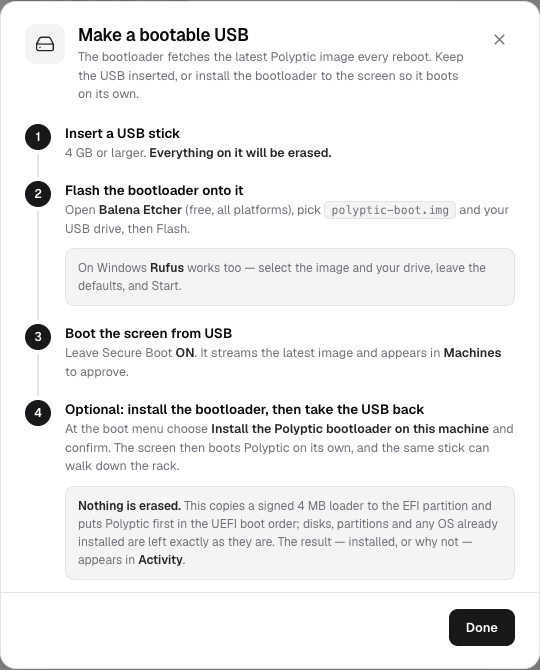
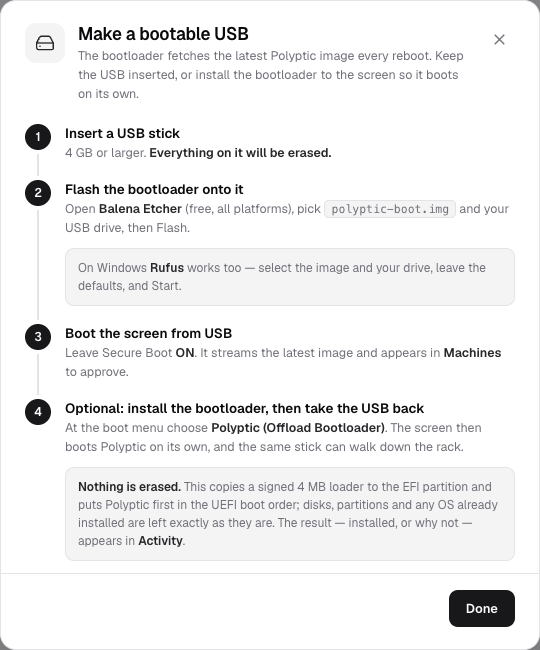
fix(netboot): flat GRUB menu, restore entry names, export arch/net (POL-58, D61)
The confirmation submenu added by D60 was broken, and broken in a way only a
real boot could reveal: picking "Yes, install it" died with

    error: file `/dist/image//vmlinuz' not found

GRUB opens a fresh environment context for a `submenu` (normal/menu.c:
`if (entry->submenu) grub_env_context_open()`) and copies only EXPORTED
variables into it. `arch` and `net` were set at the top level and never
exported, so inside the submenu both resolved to the empty string. A plain
`menuentry` never opens a context — which is exactly why the sibling live
entry booted fine seconds earlier, and why nothing off-box caught this.

So:
  - The menu is flat again, with the names operators already know:
    Polyptic (Live) / Polyptic (Offload Bootloader) / Polyptic (Debug Console).
  - `arch` and `net` are exported, so a future nesting cannot silently
    reintroduce the bug. Pinned by a test.
  - The "are you sure?" interstitial is gone. Offload is non-destructive by
    construction (D60's real content — verify, choose, report — stands), so it
    never needed an interlock, and the reassurance belongs in the console,
    where the operator reads it before walking to the box.

Docs, the console's USB modal and its screenshots follow the entry names.
293/293 tests green, typecheck clean.

diff --git a/packages/e2e/netboot.e2e.test.ts b/packages/e2e/netboot.e2e.test.ts
@@ -270,22 +270,38 @@ describe("netboot: GET /boot/grub.cfg", () => {
   );
 
   test(
-    "installing the bootloader sits behind a confirmation submenu that defaults to NO (POL-58)",
+    "the menu is three flat entries with the names operators know, and no submenu",
     async () => {
       const body = await (await fetch(`${OPEN_BASE}/boot/grub.cfg`)).text();
-      // A single keypress must never install anything: the install lives inside a submenu whose
-      // default entry is the cancel entry (a stray Enter, or the timeout, boots the wall instead).
-      expect(body).toContain('submenu "Install the Polyptic bootloader on this machine ..." --id install');
-      const submenu = body.slice(body.indexOf("--id install"));
-      expect(submenu).toContain("set default=cancel");
-      expect(submenu.indexOf("--id cancel")).toBeLessThan(submenu.indexOf("--id offload"));
-      // The operator asked to be told what installing does. It does not erase; say so where they look.
-      expect(body).toContain("Nothing is erased");
-      expect(body).toContain("--id note-1");
-      // And the top-level entry that changes nothing says so too.
-      expect(body).toContain('menuentry "Boot Polyptic now (this machine is not touched)" --id live');
-      // Cancel re-sources the menu, so backing out lands you exactly where you started.
-      expect(submenu).toContain("configfile $net/boot/grub.cfg");
+      expect(body).toContain('menuentry "Polyptic (Live)" --id live');
+      expect(body).toContain('menuentry "Polyptic (Offload Bootloader)" --id offload');
+      expect(body).toContain('menuentry "Polyptic (Debug Console)" --id debug');
+      // A submenu opens a fresh GRUB environment context, which is what broke `$net`/`$arch` below.
+      expect(body).not.toContain("submenu ");
+    },
+    TEST_TIMEOUT,
+  );
+
+  test(
+    "`arch` and `net` are EXPORTED, so a nested entry can never resolve them to empty (POL-58)",
+    async () => {
+      const body = await (await fetch(`${OPEN_BASE}/boot/grub.cfg`)).text();
+      // GRUB opens a new env context for a `submenu` and copies only EXPORTED variables into it. A
+      // confirmation submenu once wrapped the offload entry, so `$net` and `$arch` came out empty and
+      // GRUB asked for `/dist/image//vmlinuz` — file not found, on a box whose live entry booted fine.
+      // Both are set before any entry, and both are exported.
+      const archSet = body.indexOf("set arch=amd64");
+      const exportArch = body.indexOf("export arch");
+      const exportNet = body.indexOf("export net");
+      const firstEntry = body.indexOf("menuentry ");
+      expect(archSet).toBeGreaterThan(-1);
+      expect(exportArch).toBeGreaterThan(archSet);
+      expect(exportNet).toBeGreaterThan(-1);
+      expect(exportArch).toBeLessThan(firstEntry);
+      expect(exportNet).toBeLessThan(firstEntry);
+      // And no entry may hardcode an arch into the artifact path — `$arch` is the only selector.
+      expect(body).not.toContain("/dist/image/amd64/vmlinuz");
+      expect(body).not.toContain("/dist/image//vmlinuz");
     },
     TEST_TIMEOUT,
   );

diff --git a/packages/server/src/provision.ts b/packages/server/src/provision.ts
@@ -221,10 +221,11 @@ function bootKernelCmdline(httpBase: string, token: string | undefined): string 
  * commands are plain `linux`/`initrd` (noble's signed GRUB has no linuxefi). When the computed base is
  * https, http is emitted anyway: GRUB has no TLS, the boot depot is plain-HTTP by contract.
  *
- * POL-58: the install now sits behind a CONFIRMATION SUBMENU that defaults to "no". The operator who
- * hit this expected to be asked "are you sure you want to erase this disk?", and the honest answer —
- * Polyptic never erases anything — is exactly what is worth saying at the moment of choosing. GRUB
- * paints its menu over any `echo`, so the explanation has to live in the entry titles themselves.
+ * The menu is FLAT: three sibling entries, no submenu. A confirmation submenu was tried (POL-58) and
+ * reverted — it broke the very entry it guarded (see the `export` note below), and the reassurance it
+ * carried belongs in the console, where the operator reads it before walking to the box, not in a GRUB
+ * menu they are trying to get past. Offload is non-destructive by construction; nothing here needs a
+ * safety interlock.
  */
 export function buildBootGrubCfg(base: string, token: string | undefined): string {
   const hostPort = base.replace(/^[a-z][a-z0-9+.-]*:\/\//i, "");
@@ -244,29 +245,25 @@ export function buildBootGrubCfg(base: string, token: string | undefined): strin
   lines.push(
     'if [ "$grub_cpu" = "x86_64" ]; then set arch=amd64; else set arch=arm64; fi',
     `set net=(http,${hostPort})`,
+    // `export` is LOAD-BEARING, not tidiness (POL-58). GRUB opens a fresh environment context for a
+    // `submenu` (`normal/menu.c`: `if (entry->submenu) grub_env_context_open()`), and ONLY exported
+    // variables cross a context boundary. A submenu wrapped around these entries therefore saw `$net`
+    // and `$arch` as empty and asked the firmware for `/dist/image//vmlinuz` — "file not found", on a
+    // box that had booted the identical top-level entry moments before. Exporting them makes the menu
+    // safe to nest; a plain top-level menuentry never opened a context and always worked.
+    "export arch",
+    "export net",
     "set timeout=5",
     "set default=live",
-    'menuentry "Boot Polyptic now (this machine is not touched)" --id live {',
+    'menuentry "Polyptic (Live)" --id live {',
     '  echo "Polyptic: streaming the $arch live image into RAM ..."',
     `  linux  $net/dist/image/$arch/vmlinuz ${cmdline}`,
     "  initrd $net/dist/image/$arch/initrd",
     "}",
-    // The confirmation gate. `default=cancel` means a stray Enter (or the 60s timeout, which reloads
-    // this menu and boots the wall) can never install anything; the operator has to choose "Yes".
-    'submenu "Install the Polyptic bootloader on this machine ..." --id install {',
-    "  set timeout=60",
-    "  set default=cancel",
-    '  menuentry "No - go back, change nothing (or press Escape)" --id cancel {',
-    "    configfile $net/boot/grub.cfg",
-    "  }",
-    '  menuentry "Yes - add Polyptic to the UEFI boot menu and boot it first from now on" --id offload {',
-    '    echo "Polyptic: installing the signed bootloader onto this machine\'s EFI partition ..."',
-    `    linux  $net/dist/image/$arch/vmlinuz ${cmdline} polyptic.offload=1`,
-    "    initrd $net/dist/image/$arch/initrd",
-    "  }",
-    '  menuentry "Nothing is erased: your disks, partitions and existing OS are left as they are" --id note-1 { true }',
-    '  menuentry "It copies a signed 4 MB loader to the EFI partition; the OS still streams from the network" --id note-2 { true }',
-    `  menuentry 'To undo: delete the "Polyptic Netboot" boot entry in your firmware setup' --id note-3 { true }`,
+    'menuentry "Polyptic (Offload Bootloader)" --id offload {',
+    '  echo "Polyptic: offload mode, the live image will install the loader, then keep booting ..."',
+    `  linux  $net/dist/image/$arch/vmlinuz ${cmdline} polyptic.offload=1`,
+    "  initrd $net/dist/image/$arch/initrd",
     "}",
     'menuentry "Polyptic (Debug Console)" --id debug {',
     '  echo "Polyptic: live boot + root shell on tty9 (Ctrl+Alt+F9) ..."',

diff --git a/packages/console/src/views/Settings.vue b/packages/console/src/views/Settings.vue
@@ -835,8 +835,8 @@ async function onSignOut(): Promise<void> {
               <div class="step-body">
                 <div class="step-title">Optional: install the bootloader, then take the USB back</div>
                 <div class="step-text">
-                  At the boot menu choose <b>Install the Polyptic bootloader on this machine</b> and confirm. The screen
-                  then boots Polyptic on its own, and the same stick can walk down the rack.
+                  At the boot menu choose <b>Polyptic (Offload Bootloader)</b>. The screen then boots Polyptic on its
+                  own, and the same stick can walk down the rack.
                 </div>
                 <div class="step-aside">
                   <b>Nothing is erased.</b> This copies a signed 4 MB loader to the EFI partition and puts Polyptic first

diff --git a/docs/NETBOOT.md b/docs/NETBOOT.md
@@ -49,7 +49,7 @@ curl -sI http://10.0.0.5:8080/dist/image/amd64/rootfs.squashfs | grep -i accept-
 
 **5. Make a box boot it**, pick **one**:
 
-- **USB dongle (simplest):** Console ▸ Settings ▸ Onboard Screens ▸ **Download bootloader**, then `sudo dd if=polyptic-boot.img of=/dev/sdX bs=4M` to a USB stick. The same stick boots amd64 **and** arm64 boxes. Plug it in, boot from USB with Secure Boot ON, and choose **boot now** or **install the bootloader** at the menu. See [The boot medium](#the-boot-medium-dongle-or-offload).
+- **USB dongle (simplest):** Console ▸ Settings ▸ Onboard Screens ▸ **Download bootloader**, then `sudo dd if=polyptic-boot.img of=/dev/sdX bs=4M` to a USB stick. The same stick boots amd64 **and** arm64 boxes. Plug it in, boot from USB with Secure Boot ON, and choose **Polyptic (Live)** or **Polyptic (Offload Bootloader)** at the menu. See [The boot medium](#the-boot-medium-dongle-or-offload).
 - **No medium, UEFI HTTP Boot:** point the box's firmware Boot URI at `http://10.0.0.5:8080/dist/boot/shimx64.efi` (arm64: `shimaa64.efi`). See [No medium at all](#no-medium-at-all-uefi-http-boot).
 - **No medium, site DHCP:** add one option-67 rule to the DHCP you already run. See [Site DHCP option 67](#site-dhcp-option-67-one-change-to-the-dhcp-you-already-run).
 
@@ -110,7 +110,7 @@ All in [`packages/server/src/provision.ts`](../packages/server/src/provision.ts)
 
 | Route | Gate | What |
 |---|---|---|
-| `GET /boot/grub.cfg` | **ungated** | The generated GRUB menu (boot now / install-the-bootloader, the latter behind a confirmation submenu). Bakes the control-plane base from the request `Host` and, in gated mode, the current enrolment token into the kernel cmdline. The box has no operator session at boot, so this is ungated. |
+| `GET /boot/grub.cfg` | **ungated** | The generated GRUB menu: `Polyptic (Live)` / `Polyptic (Offload Bootloader)` / `Polyptic (Debug Console)`, three flat entries. Bakes the control-plane base from the request `Host` and, in gated mode, the current enrolment token into the kernel cmdline. The box has no operator session at boot, so this is ungated. |
 | `POST /boot/report` | **token** | How a box's bootloader install went (POL-58) → one line in the Live Activity feed. The reporter is mid-boot with no agent session, hence not under `/api/v1`; in gated mode it must present the fleet enrolment token it netbooted with, in open mode it is ungated like the rest of the depot. Read-only against the registry, throttled, and the body can only produce one bounded line. |
 | `GET /grub/grub.cfg` (+ `/grub/x86_64-efi/grub.cfg`, `/grub/arm64-efi/grub.cfg`) | **ungated** | **Aliases of the same menu**, at the paths an HTTP-booted GRUB actually asks for: grubnet's baked-in prefix is `/grub`, resolved against the **server root** of the host it was fetched from. See [the appendix](#no-medium-at-all-uefi-http-boot). |
 | `GET /dist/image/:arch/{vmlinuz,initrd,rootfs.squashfs}` | **ungated** | The **active** live-image artifacts, streamed with real HTTP **Range** (206/416); the root image is hundreds of MB and streamed into RAM. |
@@ -239,7 +239,7 @@ Download it from **Console ▸ Settings ▸ Onboard Screens ▸ Download bootloa
 Plug it in and the server-side menu offers:
 
 - **Boot Polyptic now**, leave the USB in. The box is fully **diskless**; nothing whatsoever is written locally. Best for disposable / hot-swap panels.
-- **Install the Polyptic bootloader on this machine**, behind a confirmation submenu that defaults to *No*. It writes *just the signed shim + GRUB pair* (the pointer, not the OS) into the box's **existing EFI System Partition** under `EFI/polyptic/`, drops the same stage-1 config at the ESP's `/grub/<arch>-efi/grub.cfg` (and `/grub/grub.cfg` when that path is free), and makes a UEFI boot entry (`efibootmgr`, "Polyptic Netboot") the firmware's **first** boot option. Pull the USB and the box self-boots the identical HTTP flow forever, **Secure Boot still ON** (the installed loaders are the same signed binaries). One USB can walk a rack, installing on each box.
+- **Polyptic (Offload Bootloader)** writes *just the signed shim + GRUB pair* (the pointer, not the OS) into the box's **existing EFI System Partition** under `EFI/polyptic/`, drops the same stage-1 config at the ESP's `/grub/<arch>-efi/grub.cfg` (and `/grub/grub.cfg` when that path is free), and makes a UEFI boot entry (`efibootmgr`, "Polyptic Netboot") the firmware's **first** boot option. Pull the USB and the box self-boots the identical HTTP flow forever, **Secure Boot still ON** (the installed loaders are the same signed binaries). One USB can walk a rack, installing on each box.
 
 > **The dongle depends on the firmware bringing the NIC up (POL-39).** GRUB carries no NIC
 > drivers of its own — `efinet` can only use a card the firmware has already initialised. Most
@@ -433,9 +433,9 @@ whole root image into a RAM tmpfs.)
 - **Dongle flow:** attach `polyptic-boot.img` as a USB **disk** drive; the firmware boots it ahead
   of PXE, and the boot-order NIC is still initialised, so dongle-GRUB is online. Verified: ~30 s
   to content.
-- **Install-the-bootloader flow:** attach an additional VirtIO disk that has a GPT + FAT32 ESP, boot
-  the dongle, open the install submenu and confirm; the live boot writes the signed loaders + boot
-  entry on the disk, after which the box boots the same chain with the dongle removed.
+- **Offload flow:** attach an additional VirtIO disk that has a GPT + FAT32 ESP, boot the dongle and
+  pick **Polyptic (Offload Bootloader)**; the live boot writes the signed loaders + boot entry on the
+  disk, after which the box boots the same chain with the dongle removed.
   A VM's blank ESP exercises none of the firmware states that broke this on real hardware, which is
   what `deploy/live/test/offload.test.sh` is for: it drives the whole decision tree (removable media,
   several ESPs, a firmware that keeps the entry but refuses to reorder, one that forgets it, a

diff --git a/docs/ROADMAP.md b/docs/ROADMAP.md
@@ -2,7 +2,7 @@
 
 The remembered path. Fixed direction, flexible detail. Update the **CURRENT** marker as we go. Phases are sequenced by dependency, not by calendar.
 
-> **CURRENT: feature-complete through Phase 8 (skipping 6/OIDC). Pending = the UTM/OrbStack VM passes + the prod `vite build`/Docker (esbuild is disabled in the build sandbox).** Phase 3 ✅ (3a–3f). 3c content library (ContentSource) · 3d scenes (snapshot/apply/scenes-left) · 3e Machines view + cold-start wizard (SolidJS admin retired) · 3f real local auth (D29/D31, argon2id/Bun.password, signed httpOnly cookies, dual-key rate-limit, /api+/admin-WS gated, AUTH_ENABLED default-on) + Settings + enrollment-token. **Phase 5 ✅** live preview thumbnails + /healthz + Prometheus /metrics + Helm chart (D32). **Phase 4 ✅** on-device stack (real sway/x11, zero-touch depot install, D41). **Phase 7 ✅** media upload→disk volume + ungated Range serve (D33). **Phase 8 ✅** single-image SPAs + GitHub Actions CI/release/Pages + distribution docs (D34). **POL-9 fixed (D36):** no phantom `HDMI-1` before a compositor, a real backend that can't discover any outputs (and has no explicit override) advertises **zero** outputs, and the server prunes UNUSED connector-stragglers on re-advertise. **POL-14 (D38):** machine + screen **removal**, DELETE machine/screen endpoints that FORGET (not just reject/unplace), console "Remove" affordances. **POL-27 done (D39):** a player with no surfaces now shows a calm "No Content Assigned" idle splash (dark, branded, screen id + build version) instead of a black screen. **POL-7 (D40):** boot splash, a generated, live Plymouth theme (branded SVG logo + baked version/host + live status), `quiet splash` cmdline, retain-splash hand-off (boot + shutdown). **POL-30 ✅ (D42):** the `--kiosk` installer **auto-reboots** when it finishes (short `Ctrl-C`-able countdown; `--no-reboot`/`POLYPTIC_NO_REBOOT` opt-out; agent-only never reboots) so the one-liner is truly zero-touch, no manual `sudo reboot`. Verified: full typecheck green, **217/217 tests across 21 files** (incl. the POL-33 netboot suites + the netboot auth-gate regression guard). **VM passes underway** (Ubuntu 26.04/arm64 UTM, `wall1`/`wall2`): POL-5, POL-14, POL-27, and **POL-7 confirmed on-device** (`wall1`). **POL-7 (D43+D45): fixed + VM-confirmed**, 26.04 (dracut + plymouth 24.004) needed three fixes: theme selection via `plymouthd.conf` (no `plymouth-set-default-theme` on 26.04), dracut-first initramfs embedding via an `install_items` drop-in, and, the real crash, installing the **`plymouth-label`** text renderer (our `script` theme's `Image.Text` had no label plugin → NULL console viewer → segfault every boot). Diagnosed live over SSH with `plymouthd --debug`. Live status line + progress bar preserved. **POL-33 netboot (D46 + D47):** a bare box network-boots a live Polyptic image into RAM (no OS install) with **Secure Boot ON**, owned **by key** not by a DHCP race, the control plane is also the **boot depot**. First stage = Ubuntu's **signed shim + network GRUB** (D47, superseding D46's unsigned self-compiled loader; we sign nothing, the loaders are pinned noble debs): `provision.ts` gains `GET /boot/grub.cfg` [per-request GRUB menu, base + gated token baked from the live `Enrollment`; aliased at `/grub/grub.cfg` + per-arch paths for UEFI HTTP Boot], `/dist/image/:arch/{vmlinuz,initrd,polyptic.iso}` [Range-streamed; casper netboots via `iso-url=`, D46's `fetch=` never existed in casper], `/dist/boot/:file` [the tokenless **universal** `polyptic-boot.img` dongle + the four signed `.efi` loaders]; `GET /api/v1/settings/netboot` + a **Console ▸ Settings ▸ Netboot** card; the whole diskless fix is a **stable `POLYPTIC_MACHINE_ID`** (DMI/MAC) + cmdline parse in `deploy/live/` reusing the agent's existing override + `enroll.ts` case-4 (zero server/protocol change). Server + console + identity layer done & tested (`bun test` netboot suites + `deploy/live/test/identity.test.sh`); `deploy/build-boot-medium.sh` builds the dongle on **macOS or Linux** (downloads + mtools, no compile); `deploy/build-live-image.sh` stays **Linux-build-host-only** (can't build/verify on macOS), the live-image build + real-hardware netboot (dongle/offload, **Secure Boot ON**) is the pending on-device pass. **POL-38 done (D48): the live image is VM-verified end to end** — the self-contained test ISO (new `deploy/build-vm-test-iso.sh`, macOS-buildable, self-verifying El Torito/ESP) auto-boots in UTM (arm64/HVF/virtio-gpu-gl), sway comes up on hardware GL, the agent enrols GATED as pending, is approved in Console ▸ Machines, and the player renders live content on the VM display. Four live-image bugs found by that watched boot are fixed in-repo (netplan DHCP + wait-online --any in the overlay; real `agent.toml` from tokenless `setup`; xwayland installed with surf; `DISPLAY` imported into the user env) — **the squashfs must be REBUILT on the Linux host (`build-live-image.sh`) to pick them up before POL-39.** **POL-38 closed out fully (D48+D49):** the fresh image (agent + squashfs rebuilt via a privileged Docker container, macOS-hosted) cold-boots the downloadable ISO to the branded Plymouth splash (live status line) and straight into wall content, zero hands; Console ▸ Settings ▸ Netboot now offers BOTH downloads (netboot dongle + per-arch VM test ISO). **POL-39 done (D50): the full netboot chain runs in the UTM VM, all three flows** — PXE-served loaders (~60s power-on→content), USB dongle (~30s), offload-to-disk (~70s, dongle removed) — after fixing the portless-Host `computeBaseUrl` bug and shipping `efibootmgr` in the image (offload was a half-install without it). UTM's EDK2 has no HTTP-Boot driver (PXE is the VM path; documented). **POL-41 (D51): automated image updates** — scheduled server-side refresh (Console ▸ Settings ▸ Image updates, default 01:00, `IMAGE_REBUILD_CMD` hook + `deploy/refresh-live-image.sh`/`rebuild-image-docker.sh`), per-build `/etc/polyptic/image-id`, ungated `/dist/image/<arch>/manifest.json`, and a 5-minute box-side poll that reboots stale netbooted boxes (urgent → minutes, else the 03:00–05:00 window). **POL-43 (D52): Kubernetes** — the Helm chart catches up to the netboot line (depot on a PVC, rebuild hooks = privileged k8s Jobs created by `deploy/k8s-run-job.ts`, RBAC-minimal, scripts version-locked inside the server image) and a **weekly FULL-rebuild cycle** (default Sun 02:00, `IMAGE_FULL_REBUILD_CMD`) closes the kernel-CVE gap the nightly refresh can't touch; verified live on OrbStack k8s. **POL-24 (D53): content auth — credential profiles** (OAuth client-credentials at the operator's IdP; the server keeps tokens fresh and stamps `?auth_token=` into web/dashboard URLs at send time; Grafana `[auth.jwt]`/`url_login` consumes them), `ContentSource.credentialProfileId`, “Access credentials” console section + per-source Authentication picker; verified end-to-end against a stub IdP (REST + agent/player WS + console UI). IdP side: ACS PR #668 (serviceAccountsEnabled) + #670 (Grafana 13); fpd-ago is the live testbed. **POL-45 (D54): Settings rebuilt + image BUILD HISTORY with operator-chosen active image.** The depot now keeps `imageUpdates.retainBuilds` (default 3) builds per arch under `<arch>/builds/<imageId>/`, with the arch root hardlinked at the ACTIVE one — so the boot chain is unchanged and **activating an older build is the fleet rollback** (boxes re-pull on the existing 5-minute poll). `POST /api/v1/settings/image/activate` + ungated `GET /dist/image/:arch/builds/:imageId/:file`; depot PVC default 15Gi→30Gi. Console: Netboot → **Onboard Screens** (bootloader download + "Make a bootable USB" modal + Recent builds with Activate/download + a ⋯ menu for Build update / Full rebuild / Deploy-latest-now), Image updates → **Update schedule**, and HTTP Boot / DHCP option-67 behind a "Boot without a USB stick" disclosure. **POL-35 (D55): the netboot root image shrinks 1.41 GiB → 491.8 MiB (−66%) and the netboot RAM floor halves (~4 GB → ~2 GB).** `deploy/build-live-image.sh` now builds the rootfs UP from `ubuntu-base` (no `BASE_ISO`, no `xorriso`) and ships a BARE `rootfs.squashfs` booted by dracut (`root=live:<url>`) instead of a casper ISO wrapper — the initrd is built by `dracut --no-hostonly` inside the chroot, so kernel/`/lib/modules`/initrd come from one apt transaction and the `apt-mark hold` netboot footgun is structurally gone. The D47 signed chain is byte-for-byte unchanged (apt's `linux-image-<abi>-generic` is the same Canonical-signed PE; the `sbverify` guard passes). Firmware is curated (`linux-firmware-minimal` + GPU/NIC allowlist, `FULL_FIRMWARE=1` escape hatch) because `linux-image-generic` **Depends** on the full ~600 MB set. Depot artifact `polyptic.iso` → `rootfs.squashfs` across provision/image-updates/helm/tests; the POL-46 tmpfs fix becomes a dracut module. Verified: the real arm64 artifacts boot under QEMU from a bare HTTP squashfs (livenet → dmsquash-live overlayfs → systemd → `polyptic-agent-env`); 256/256 tests green. **POL-55 (D59): reboot ONE machine from the console** — `POST /api/v1/machines/:id/reboot` → `server/reboot` on that box's live agent socket → `agent/reboot-ack`; a Reboot button on Console ▸ Machines (online machines only), 409 when offline/not-approved. The unprivileged agent escalates by creating `/run/polyptic/requests/reboot`, which a root-owned `polyptic-reboot.path`/`.service` pair written by `setup` turns into `systemctl --no-block reboot` — no sudo, no polkit, nothing in the image to add. `dev-open` and non-Linux hosts REFUSE (a stray reboot must never hit a developer's laptop) and the reason lands in the activity feed.**POL-58 (D60): the first real-hardware bootloader install — a box with Ubuntu on it "claimed to offload" and then booted straight back into the old Ubuntu.** `offload.sh` now VERIFIES rather than assumes (re-reads the UEFI variables and asserts `Polyptic Netboot` leads `BootOrder` before anything is stamped or claimed; the unit no longer maps exit 1 → success), CHOOSES rather than guesses its target ESP (removable media excluded, multi-ESP boxes scored by `PARTUUID` against the firmware's own boot entries, a tie aborts and names `polyptic.offload_disk=`), and REPORTS rather than journals (boot splash + `POST /boot/report` → one Live Activity line; `BootReportBody`/`BootReportCode` in `protocol`). The GRUB menu gains a confirmation submenu defaulting to "No" that says in its titles that nothing is erased, echoed in the console's USB modal. New `deploy/live/test/offload.test.sh` drives the whole decision tree against stubs on any host — the VM pass could never have caught this, because a blank ESP on a disk with no OS exercises none of it. Next: real-hardware netboot pass (dongle/install, Secure Boot ON, incl. true UEFI HTTP Boot) — now also the first check of the curated firmware allowlist on real GPUs/NICs, and of the POL-58 fix; then OIDC (6) when wanted.
+> **CURRENT: feature-complete through Phase 8 (skipping 6/OIDC). Pending = the UTM/OrbStack VM passes + the prod `vite build`/Docker (esbuild is disabled in the build sandbox).** Phase 3 ✅ (3a–3f). 3c content library (ContentSource) · 3d scenes (snapshot/apply/scenes-left) · 3e Machines view + cold-start wizard (SolidJS admin retired) · 3f real local auth (D29/D31, argon2id/Bun.password, signed httpOnly cookies, dual-key rate-limit, /api+/admin-WS gated, AUTH_ENABLED default-on) + Settings + enrollment-token. **Phase 5 ✅** live preview thumbnails + /healthz + Prometheus /metrics + Helm chart (D32). **Phase 4 ✅** on-device stack (real sway/x11, zero-touch depot install, D41). **Phase 7 ✅** media upload→disk volume + ungated Range serve (D33). **Phase 8 ✅** single-image SPAs + GitHub Actions CI/release/Pages + distribution docs (D34). **POL-9 fixed (D36):** no phantom `HDMI-1` before a compositor, a real backend that can't discover any outputs (and has no explicit override) advertises **zero** outputs, and the server prunes UNUSED connector-stragglers on re-advertise. **POL-14 (D38):** machine + screen **removal**, DELETE machine/screen endpoints that FORGET (not just reject/unplace), console "Remove" affordances. **POL-27 done (D39):** a player with no surfaces now shows a calm "No Content Assigned" idle splash (dark, branded, screen id + build version) instead of a black screen. **POL-7 (D40):** boot splash, a generated, live Plymouth theme (branded SVG logo + baked version/host + live status), `quiet splash` cmdline, retain-splash hand-off (boot + shutdown). **POL-30 ✅ (D42):** the `--kiosk` installer **auto-reboots** when it finishes (short `Ctrl-C`-able countdown; `--no-reboot`/`POLYPTIC_NO_REBOOT` opt-out; agent-only never reboots) so the one-liner is truly zero-touch, no manual `sudo reboot`. Verified: full typecheck green, **217/217 tests across 21 files** (incl. the POL-33 netboot suites + the netboot auth-gate regression guard). **VM passes underway** (Ubuntu 26.04/arm64 UTM, `wall1`/`wall2`): POL-5, POL-14, POL-27, and **POL-7 confirmed on-device** (`wall1`). **POL-7 (D43+D45): fixed + VM-confirmed**, 26.04 (dracut + plymouth 24.004) needed three fixes: theme selection via `plymouthd.conf` (no `plymouth-set-default-theme` on 26.04), dracut-first initramfs embedding via an `install_items` drop-in, and, the real crash, installing the **`plymouth-label`** text renderer (our `script` theme's `Image.Text` had no label plugin → NULL console viewer → segfault every boot). Diagnosed live over SSH with `plymouthd --debug`. Live status line + progress bar preserved. **POL-33 netboot (D46 + D47):** a bare box network-boots a live Polyptic image into RAM (no OS install) with **Secure Boot ON**, owned **by key** not by a DHCP race, the control plane is also the **boot depot**. First stage = Ubuntu's **signed shim + network GRUB** (D47, superseding D46's unsigned self-compiled loader; we sign nothing, the loaders are pinned noble debs): `provision.ts` gains `GET /boot/grub.cfg` [per-request GRUB menu, base + gated token baked from the live `Enrollment`; aliased at `/grub/grub.cfg` + per-arch paths for UEFI HTTP Boot], `/dist/image/:arch/{vmlinuz,initrd,polyptic.iso}` [Range-streamed; casper netboots via `iso-url=`, D46's `fetch=` never existed in casper], `/dist/boot/:file` [the tokenless **universal** `polyptic-boot.img` dongle + the four signed `.efi` loaders]; `GET /api/v1/settings/netboot` + a **Console ▸ Settings ▸ Netboot** card; the whole diskless fix is a **stable `POLYPTIC_MACHINE_ID`** (DMI/MAC) + cmdline parse in `deploy/live/` reusing the agent's existing override + `enroll.ts` case-4 (zero server/protocol change). Server + console + identity layer done & tested (`bun test` netboot suites + `deploy/live/test/identity.test.sh`); `deploy/build-boot-medium.sh` builds the dongle on **macOS or Linux** (downloads + mtools, no compile); `deploy/build-live-image.sh` stays **Linux-build-host-only** (can't build/verify on macOS), the live-image build + real-hardware netboot (dongle/offload, **Secure Boot ON**) is the pending on-device pass. **POL-38 done (D48): the live image is VM-verified end to end** — the self-contained test ISO (new `deploy/build-vm-test-iso.sh`, macOS-buildable, self-verifying El Torito/ESP) auto-boots in UTM (arm64/HVF/virtio-gpu-gl), sway comes up on hardware GL, the agent enrols GATED as pending, is approved in Console ▸ Machines, and the player renders live content on the VM display. Four live-image bugs found by that watched boot are fixed in-repo (netplan DHCP + wait-online --any in the overlay; real `agent.toml` from tokenless `setup`; xwayland installed with surf; `DISPLAY` imported into the user env) — **the squashfs must be REBUILT on the Linux host (`build-live-image.sh`) to pick them up before POL-39.** **POL-38 closed out fully (D48+D49):** the fresh image (agent + squashfs rebuilt via a privileged Docker container, macOS-hosted) cold-boots the downloadable ISO to the branded Plymouth splash (live status line) and straight into wall content, zero hands; Console ▸ Settings ▸ Netboot now offers BOTH downloads (netboot dongle + per-arch VM test ISO). **POL-39 done (D50): the full netboot chain runs in the UTM VM, all three flows** — PXE-served loaders (~60s power-on→content), USB dongle (~30s), offload-to-disk (~70s, dongle removed) — after fixing the portless-Host `computeBaseUrl` bug and shipping `efibootmgr` in the image (offload was a half-install without it). UTM's EDK2 has no HTTP-Boot driver (PXE is the VM path; documented). **POL-41 (D51): automated image updates** — scheduled server-side refresh (Console ▸ Settings ▸ Image updates, default 01:00, `IMAGE_REBUILD_CMD` hook + `deploy/refresh-live-image.sh`/`rebuild-image-docker.sh`), per-build `/etc/polyptic/image-id`, ungated `/dist/image/<arch>/manifest.json`, and a 5-minute box-side poll that reboots stale netbooted boxes (urgent → minutes, else the 03:00–05:00 window). **POL-43 (D52): Kubernetes** — the Helm chart catches up to the netboot line (depot on a PVC, rebuild hooks = privileged k8s Jobs created by `deploy/k8s-run-job.ts`, RBAC-minimal, scripts version-locked inside the server image) and a **weekly FULL-rebuild cycle** (default Sun 02:00, `IMAGE_FULL_REBUILD_CMD`) closes the kernel-CVE gap the nightly refresh can't touch; verified live on OrbStack k8s. **POL-24 (D53): content auth — credential profiles** (OAuth client-credentials at the operator's IdP; the server keeps tokens fresh and stamps `?auth_token=` into web/dashboard URLs at send time; Grafana `[auth.jwt]`/`url_login` consumes them), `ContentSource.credentialProfileId`, “Access credentials” console section + per-source Authentication picker; verified end-to-end against a stub IdP (REST + agent/player WS + console UI). IdP side: ACS PR #668 (serviceAccountsEnabled) + #670 (Grafana 13); fpd-ago is the live testbed. **POL-45 (D54): Settings rebuilt + image BUILD HISTORY with operator-chosen active image.** The depot now keeps `imageUpdates.retainBuilds` (default 3) builds per arch under `<arch>/builds/<imageId>/`, with the arch root hardlinked at the ACTIVE one — so the boot chain is unchanged and **activating an older build is the fleet rollback** (boxes re-pull on the existing 5-minute poll). `POST /api/v1/settings/image/activate` + ungated `GET /dist/image/:arch/builds/:imageId/:file`; depot PVC default 15Gi→30Gi. Console: Netboot → **Onboard Screens** (bootloader download + "Make a bootable USB" modal + Recent builds with Activate/download + a ⋯ menu for Build update / Full rebuild / Deploy-latest-now), Image updates → **Update schedule**, and HTTP Boot / DHCP option-67 behind a "Boot without a USB stick" disclosure. **POL-35 (D55): the netboot root image shrinks 1.41 GiB → 491.8 MiB (−66%) and the netboot RAM floor halves (~4 GB → ~2 GB).** `deploy/build-live-image.sh` now builds the rootfs UP from `ubuntu-base` (no `BASE_ISO`, no `xorriso`) and ships a BARE `rootfs.squashfs` booted by dracut (`root=live:<url>`) instead of a casper ISO wrapper — the initrd is built by `dracut --no-hostonly` inside the chroot, so kernel/`/lib/modules`/initrd come from one apt transaction and the `apt-mark hold` netboot footgun is structurally gone. The D47 signed chain is byte-for-byte unchanged (apt's `linux-image-<abi>-generic` is the same Canonical-signed PE; the `sbverify` guard passes). Firmware is curated (`linux-firmware-minimal` + GPU/NIC allowlist, `FULL_FIRMWARE=1` escape hatch) because `linux-image-generic` **Depends** on the full ~600 MB set. Depot artifact `polyptic.iso` → `rootfs.squashfs` across provision/image-updates/helm/tests; the POL-46 tmpfs fix becomes a dracut module. Verified: the real arm64 artifacts boot under QEMU from a bare HTTP squashfs (livenet → dmsquash-live overlayfs → systemd → `polyptic-agent-env`); 256/256 tests green. **POL-55 (D59): reboot ONE machine from the console** — `POST /api/v1/machines/:id/reboot` → `server/reboot` on that box's live agent socket → `agent/reboot-ack`; a Reboot button on Console ▸ Machines (online machines only), 409 when offline/not-approved. The unprivileged agent escalates by creating `/run/polyptic/requests/reboot`, which a root-owned `polyptic-reboot.path`/`.service` pair written by `setup` turns into `systemctl --no-block reboot` — no sudo, no polkit, nothing in the image to add. `dev-open` and non-Linux hosts REFUSE (a stray reboot must never hit a developer's laptop) and the reason lands in the activity feed.**POL-58 (D60): the first real-hardware bootloader install — a box with Ubuntu on it "claimed to offload" and then booted straight back into the old Ubuntu.** `offload.sh` now VERIFIES rather than assumes (re-reads the UEFI variables and asserts `Polyptic Netboot` leads `BootOrder` before anything is stamped or claimed; the unit no longer maps exit 1 → success), CHOOSES rather than guesses its target ESP (removable media excluded, multi-ESP boxes scored by `PARTUUID` against the firmware's own boot entries, a tie aborts and names `polyptic.offload_disk=`), and REPORTS rather than journals (boot splash + `POST /boot/report` → one Live Activity line; `BootReportBody`/`BootReportCode` in `protocol`). The GRUB menu gains a confirmation submenu defaulting to "No" that says in its titles that nothing is erased, echoed in the console's USB modal. New `deploy/live/test/offload.test.sh` drives the whole decision tree against stubs on any host — the VM pass could never have caught this, because a blank ESP on a disk with no OS exercises none of it. (The confirmation submenu D60 shipped was reverted the same day by **D61**: GRUB gives a submenu its own env context, so `$net`/`$arch` came out empty inside it. Menu is flat; entries are `Polyptic (Live)` / `(Offload Bootloader)` / `(Debug Console)`.) Next: real-hardware netboot pass (dongle/install, Secure Boot ON, incl. true UEFI HTTP Boot) — now also the first check of the curated firmware allowlist on real GPUs/NICs, and of the POL-58 fix; then OIDC (6) when wanted.
 
 ---
 

diff --git a/docs/DECISIONS.md b/docs/DECISIONS.md
@@ -64,3 +64,4 @@ ADR-lite. Newest at the bottom. Don't re-litigate accepted decisions in passing 
 | D58 | 2026-07-10 | **`GET /install` and the substrate-bundle depot are REMOVED. Netboot is the only supported provisioning path. Supersedes D41.** Deleted: the `/install` route + `deploy/install.sh` + the built-in `install.default.sh` fallback template (and `INSTALL_SCRIPT_PATH`), the `GET /dist/deps/:distro/:arch/{manifest.json,:file}` routes + `DEPS_DIST_DIR` + `deploy/bundle-deps.sh` + the Dockerfile's `BUNDLE_DEPS` arg, and `packages/e2e/install.e2e.test.ts`. **Kept:** `GET /dist/agent/:arch` and `AGENT_DIST_DIR` — no boot path fetches them (`build-live-image.sh` reads the binary off local disk and apt-installs the substrate in its chroot), but the route is where agent OTA (POL-28) lands, and the binaries must stay in the server image for in-cluster rebuild Jobs. `deploy/build-agent.sh` stays: it feeds the image build. Verified after the cut: `/install` and `/dist/deps/**` 404, `/boot/grub.cfg` + `/dist/boot/*` + `/dist/agent/:arch` unchanged, 247/247 tests green. | Accepted | Alex's call. D41 kept the one-liner as "the ONE delivery path" for a box that already had an OS; netboot (D46/D47/D55) removed the need for the box to have an OS at all, so the one-liner became a second, unsupported provisioning entry point that drifted (no image updates, no rollback, its own air-gap depot to keep working). One path, one thing to keep working — the same reasoning D41 used to delete the `.deb`, applied to D41. |
 | D59 | 2026-07-10 | **POL-55: an operator can reboot ONE named machine from the console, and the agent's escalation to do it is `touch`, not `sudo`.** New surface: `POST /api/v1/machines/:id/reboot {reason?}` → `server/reboot` down that machine's live agent socket, answered by `agent/reboot-ack {accepted, reason?}`; a Reboot button on Console ▸ Machines, shown only while the machine is **online** (the reboot rides the socket). 404 unknown, **409** when the machine is not approved or has no live socket — an undelivered reboot must never read as a delivered one. This is the OTHER DIRECTION from D51's fleet roll-out: there, each box polls the image manifest and reboots *itself*; here the control plane pushes at one box that has wedged (compositor dead, browser hung) but still holds an agent socket. **The privileged half:** the agent runs unprivileged as the kiosk user, and the D55 image ships neither `sudo` nor polkit — so logind refuses an unprivileged `systemctl reboot` outright. Rather than install either (a general-purpose escalation on a kiosk, for one action), `polyptic-agent setup` writes a root-owned systemd pair whose ONLY capability is rebooting: `polyptic-reboot.path` watches `PathExists=/run/polyptic/requests/reboot`, and `polyptic-reboot.service` deletes that file (so a failed reboot cannot re-arm the watcher) and runs `systemctl --no-block reboot`. A `tmpfiles.d` drop-in creates the request dir `0770 root:<kiosk>` each boot — **only** that sub-directory, never `/run/polyptic` itself, which holds `agent.env` and its bootstrap token. The agent therefore escalates by creating an empty file: no command string, no argument, nothing to smuggle, and `/run` being tmpfs means a request cannot outlive the reboot it caused. A box with no helper (a dev Linux host, a hand-rolled image) falls back to plain `systemctl reboot`. **Refusals are first-class:** `dev-open` (the laptop backend) and any non-Linux host decline and say why, so a stray reboot can never power-cycle a developer's desktop; the reason rides back on the ack into the Live Activity feed, because a refused reboot leaves the box up and the operator's click otherwise did nothing visible. | Accepted | Alex asked whether the mechanism was already there. It half was: D51 gave boxes a reason to reboot themselves, not the control plane a way to reboot one of them — and "the wall is frozen" is exactly the case where the image is fine and the box is not. The agent-channel push (`agent/ident`, `agent/capture`) was the obvious carrier; the only real design question was privilege, and a systemd path unit answers it with strictly less attack surface than a sudoers line, no new package in a 492 MiB image, and a helper that is *incapable* of doing anything but reboot. |
 | D60 | 2026-07-10 | **POL-58: installing the bootloader is CONFIRMED, VERIFIED, and REPORTED — never silently assumed.** Three changes, all downstream of one bug class. **(a) Verified, not assumed:** `offload.sh` re-reads the UEFI boot variables after writing them and asserts `Polyptic Netboot` both exists and *leads* `BootOrder`; nothing is stamped, said, or reported as installed until the firmware itself agrees. The unit's `SuccessExitStatus=0 1` is gone, so a failed install is a failed unit. **(b) Chosen, not guessed:** the target ESP is filtered (removable media excluded outright) then scored by `PARTUUID` against the firmware's existing boot entries; a genuine tie aborts and names the `polyptic.offload_disk=` override rather than picking one. Stale `Polyptic Netboot` entries are pruned and re-created against the ESP actually written, and `BootOrder` is set explicitly. **(c) Reported, not journalled:** every outcome goes to the boot splash *and* to `POST /boot/report` → one Live Activity line (`BootReportBody`/`BootReportCode` in `protocol`; token-gated when the fleet is gated; throttled). The GRUB menu gains a **confirmation submenu defaulting to "No"** whose entry titles state plainly that nothing is erased. The removable-media fallback path `EFI/BOOT/BOOT<arch>.EFI` is claimed **only when empty**. `deploy/live/test/offload.test.sh` drives the whole tree against stubs (no root, no disks, macOS/Linux/CI). | Accepted | A real box with Ubuntu on it "claimed to offload" and then booted straight back into the old Ubuntu. Every failure path in the script exited quietly into a journal on a RAM disk that is discarded at reboot, the unit laundered exit 1 into success, and GRUB's `echo` had already announced the install before anything was attempted — so a box that never received a boot entry was indistinguishable from one that did. The VM pass (POL-39) could not have caught it: it offloaded onto a *blank* ESP on a disk with no OS, no competing boot entries, and cooperative EDK2 NVRAM. The operator also expected an "are you sure?" step; the honest answer — Polyptic never erases anything — is exactly what is worth saying at the moment of choosing, so it is said in the menu titles, the console's USB modal, and on success. Aborting on an ambiguous ESP is deliberate: the old first-`lsblk`-wins behaviour is a coin toss that fails silently, and a coin toss that writes boot entries is worse than a message naming the flag that resolves it. |
+| D61 | 2026-07-10 | **The netboot GRUB menu stays FLAT and keeps its established entry names; `arch`/`net` are exported. Supersedes the confirmation-submenu half of D60.** The three entries are `Polyptic (Live)`, `Polyptic (Offload Bootloader)`, `Polyptic (Debug Console)` — siblings, no submenu, no interstitial "are you sure?" page. The `set arch=` / `set net=` lines that precede them are now `export`ed. | Accepted | The submenu D60 added was **broken**, and broken in a way only a real boot revealed: GRUB opens a fresh environment context for a `submenu` and copies only EXPORTED variables into it (`normal/menu.c`: `if (entry->submenu) grub_env_context_open()`), so inside it `$net` and `$arch` were empty and the offload entry asked the firmware for `/dist/image//vmlinuz` — *file not found*, on a box whose top-level live entry had booted seconds earlier. A plain `menuentry` never opens a context, which is exactly why the flat entries always worked and why the guard entry did not. `export` fixes the mechanism, and is kept so a future nesting cannot silently reintroduce it, but the guard itself is gone: offload is non-destructive by construction (D60's real content — verify, choose, report — stands), so it never needed an interlock, and the reassurance belongs in the console where the operator reads it *before* walking to the box, not in a menu they are trying to get past. Renaming the entries was churn: operators know these three names. |